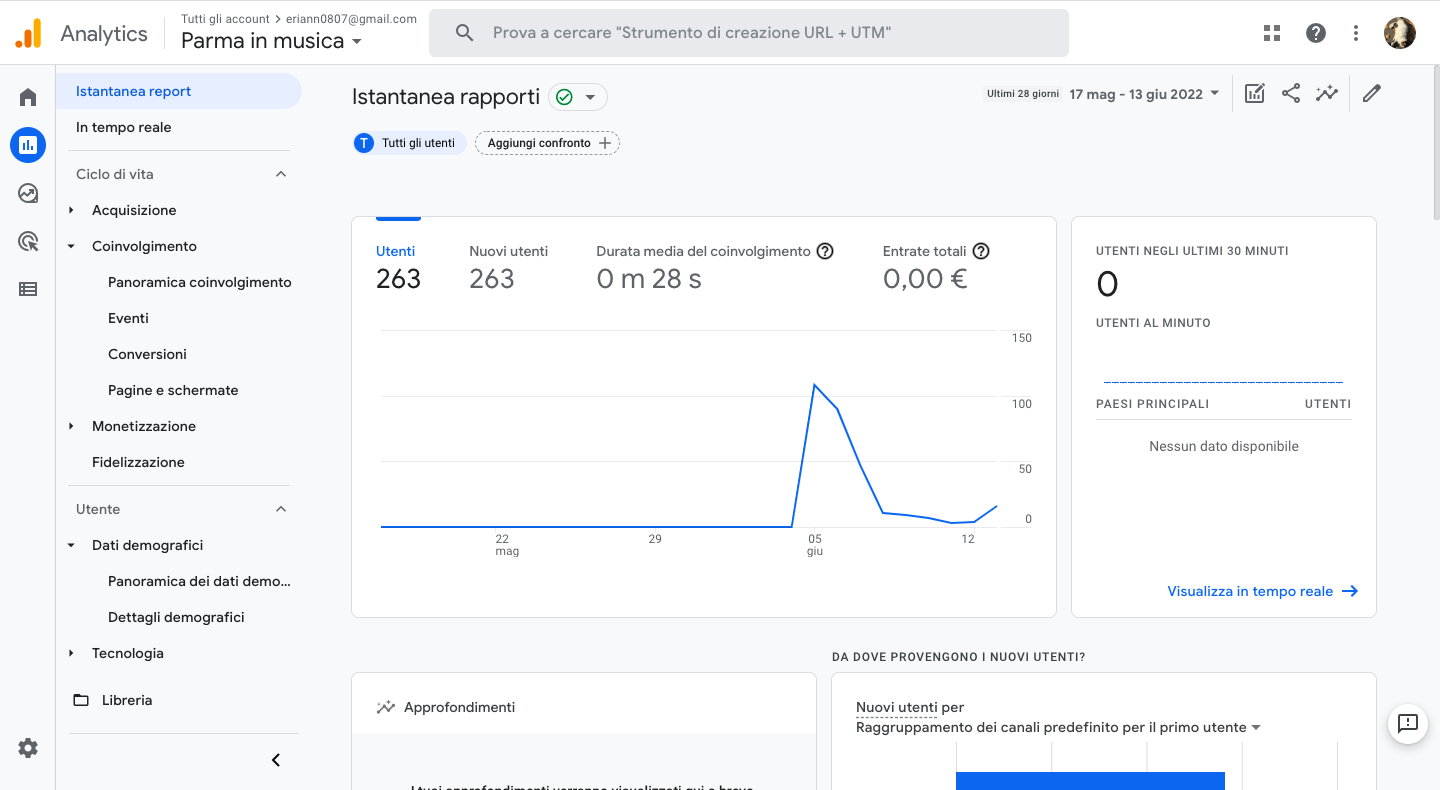
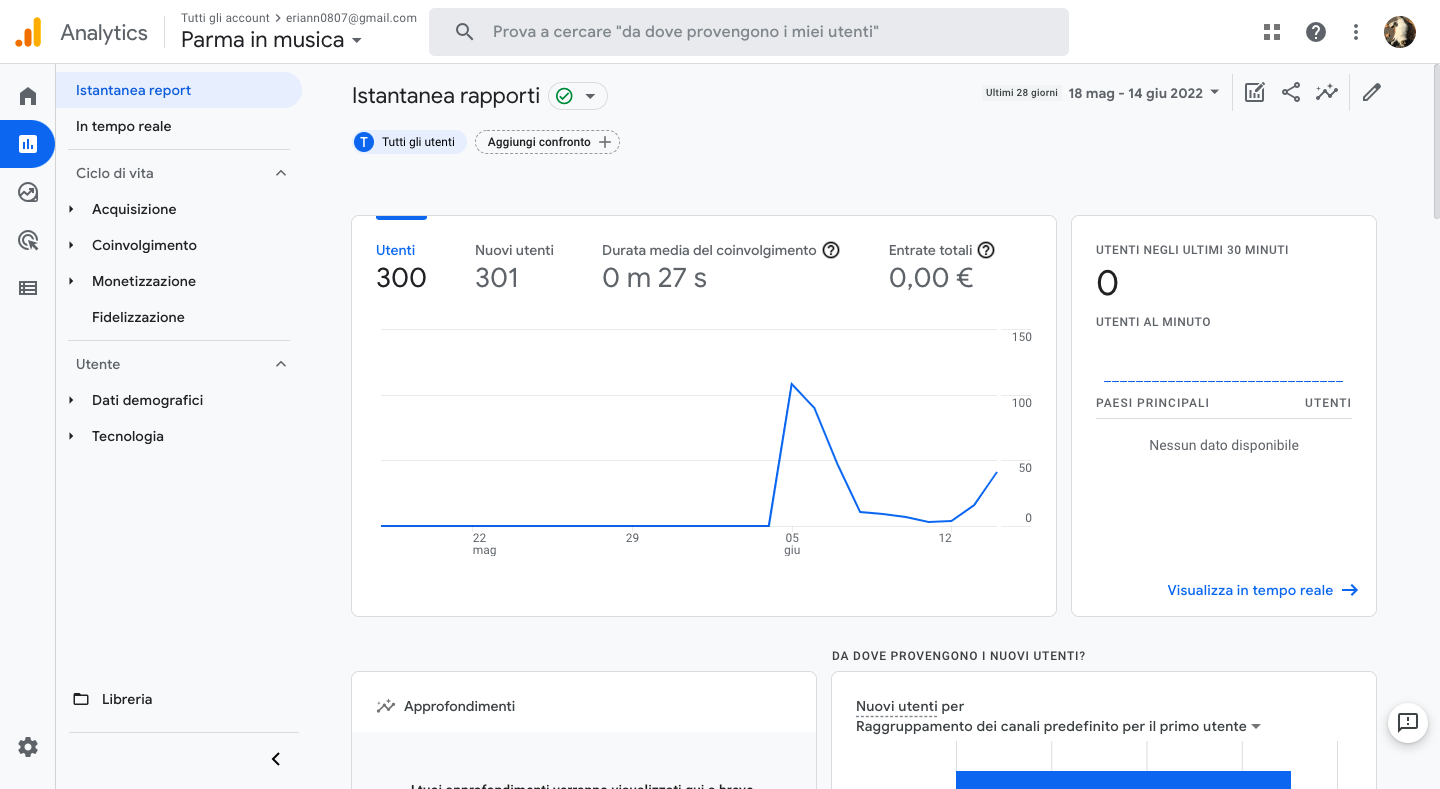
Add files via upload

diff --git a/documenti.html b/documenti.html
@@ -149,7 +149,7 @@
                 </div>
                 <div class="row">
                     <p class="text-muted">
-                        Su un obiettivo di almeno 150 visualizzazioni, il sito ne ha raggiunte 263. <br>Inoltre il sito è stato condiviso da altri utenti su Facebook e sulle storie di Instagram per un totale di 6 repost. <br> Le storie di Instagram del mio profilo mi hanno permesso di condividere il link con i miei followers e di monitorare interazioni, click e repost. <br>Infine, ho raccolto qualche feedback dato dal passaparola su Whatsapp, che è stata la principale fonte di condivisione.
+                        Su un obiettivo di almeno 150 visualizzazioni, il sito ne ha raggiunte 300. <br>Inoltre il sito è stato condiviso da altri utenti su Facebook e sulle storie di Instagram per un totale di 6 repost. <br> Le storie di Instagram del mio profilo mi hanno permesso di condividere il link con i miei followers e di monitorare interazioni, click e repost. <br>Infine, ho raccolto qualche feedback dato dal passaparola su Whatsapp, che è stata la principale fonte di condivisione.
                     </p>
                         <a target="_blank" href="assets/img/analytics.png"><img class ="imdoc" src="assets/img/analytics.png"></a>
                     <p class="text-muted">Figura 6: Risultati Google Analytics</p>
